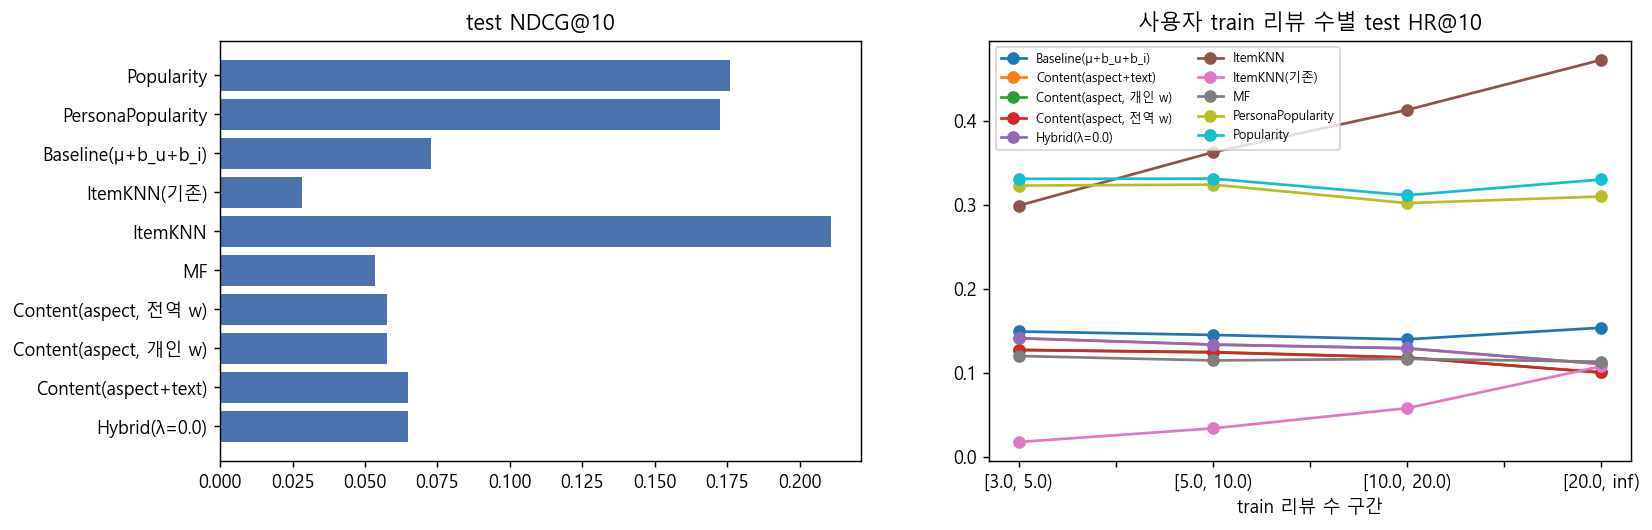
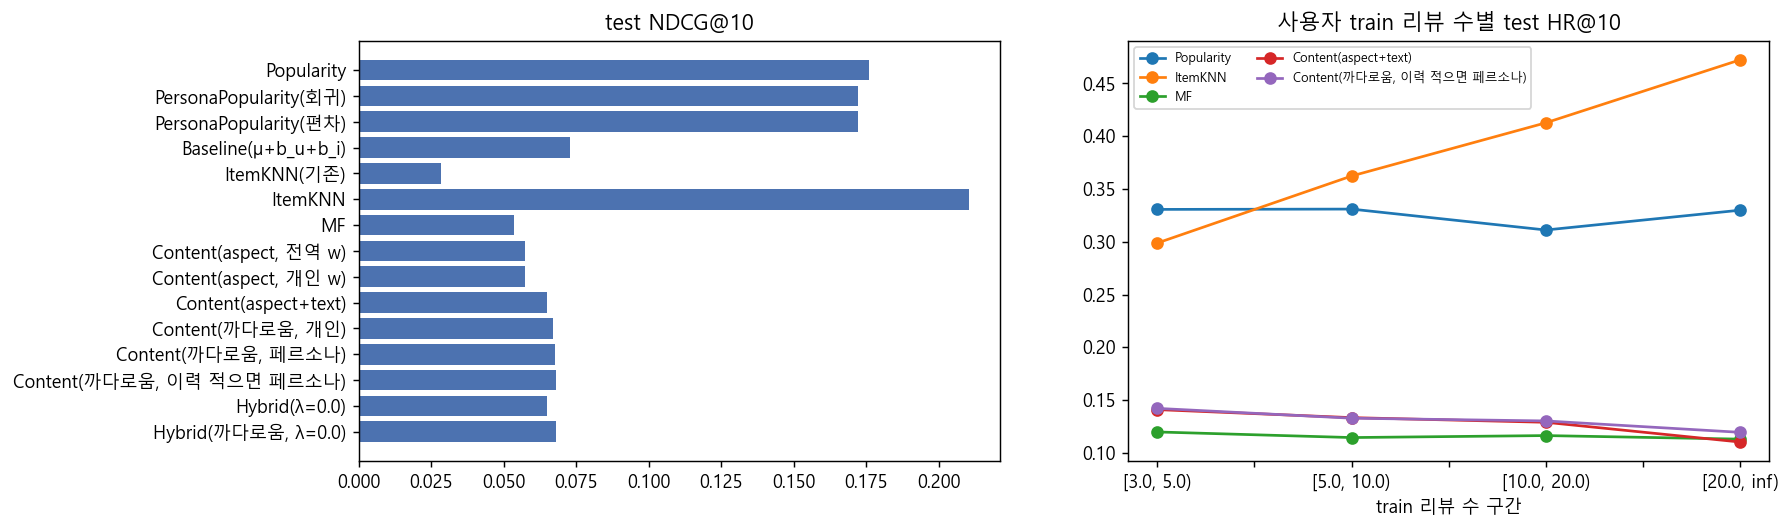
feat: 편차 기반 선호(04·05)를 06 추천 모델에 연결
- PersonaPopularity(편차): 05의 페르소나(K=2)로 군집별 인기 호텔 추천 (기존은 PersonaPopularity(회귀)로 이름 변경)
- Content(까다로움): aspect 가중치 = 전역 가중치 × exp(τ·까다로움) (합은 전역과 같게), 절편에 κ·관대함 추가
  - τ는 val NDCG@10으로 선택(후보 0~320, τ=160), κ는 val 평점 잔차 최소제곱(0.51)
  - 까다로움: 개인 / 페르소나 평균 / 이력이 적은 사용자(train 5건 미만)만 페르소나 세 가지 비교
- Hybrid(까다로움): λ·MF + (1-λ)·Content(까다로움, 이력 적으면 페르소나)
- 텍스트 유사도를 콘텐츠 변형들이 공유하도록 캐시, 활동량별 그림은 주요 모델만 표시
- 결과(test): 콘텐츠 기반 RMSE 0.952 -> 0.931, 무작위 후보 HR@5 0.070 -> 0.078, 같은 도시 후보는 차이 없음
- README: 06 모델 표, 연결 결과표와 해석, 06 입력(05 추가)과 실행 시간 갱신

diff --git a/Pipeline/06_train_evaluate.py b/Pipeline/06_train_evaluate.py
@@ -20,6 +20,16 @@ Item-kNN은 개선판(KNNBaseline + 분모 축소 + 공동 방문 순위 점수)
 
 하이브리드 (제안서 ④):  score = λ · MF + (1 - λ) · ContentBased,  λ는 val NDCG@10이 가장 높은 값
 
+편차 기반 선호 연결 (04·05단계의 user_personas_dev_tuned.csv)
+    PersonaPopularity(편차): 05의 페르소나(까다로움 유형)가 같은 사용자들이 4점 이상 준 호텔을 추천
+    Content(까다로움): 콘텐츠 기반의 aspect 가중치를 사용자가 까다롭게 보는 aspect 쪽으로 기울인다.
+        w_uk = w_g,k · exp(τ · strict_uk),  Σ_k w_uk = Σ_k w_g,k 가 되도록 정규화 (평점 척도 유지)
+        절편 = w_g,0 + κ · 관대함_u   (관대함은 사용자마다 상수라 순위는 바꾸지 않고 평점만 보정)
+        τ는 val NDCG@10, κ는 val 평점 잔차의 최소제곱으로 고른다.
+        까다로움은 세 가지로 비교: 개인 / 페르소나 평균 / 이력이 적은 사용자(train 리뷰 COLD_MAX건 미만)만 페르소나
+        (마지막이 역할표의 "콜드스타트 시 페르소나 가중치로 대체")
+    Hybrid(까다로움): λ · MF + (1 - λ) · Content(까다로움, 이력 적으면 페르소나), λ는 val NDCG@10
+
 출력: Pipeline/outputs/06_*.csv, figures/06_*.png
 """
 import argparse
@@ -29,16 +39,44 @@ import numpy as np
 import pandas as pd
 import scipy.sparse as sp
 
-from common import (HOTELREC_DIR, SEED, WORK_DIR, ensure_dirs, load_split, mae, ranking_metrics, rmse,
+from common import (ASPECTS, HOTELREC_DIR, SEED, WORK_DIR, ensure_dirs, load_split, mae, ranking_metrics, rmse,
                     sample_candidates, sample_city_candidates, save_fig, save_table, setup_plot)
 from models import BiasBaseline, BiasedMF, ContentBased, ItemKNN, PersonaPopularity, Popularity
 
 LAMBDAS = np.round(np.arange(0, 1.01, 0.1), 1)
 ACTIVITY_BINS = [3, 5, 10, 20, np.inf]
+# 까다로움 반영 강도 후보. 까다로움은 점수 단위로 대부분 ±0.1 이내라 τ가 수십~수백이어야 가중치가 달라진다.
+# (가장 까다로운 aspect의 가중치 비율 중앙값: τ=80 → 0.66, 160 → 0.89, 320 → 0.99)
+TAUS = [0, 5, 10, 20, 40, 80, 160, 320]
+COLD_MAX = 5                        # train 리뷰가 이보다 적은 사용자는 개인 대신 페르소나 까다로움 사용
+ACTIVITY_PLOT = ["Popularity", "ItemKNN", "MF", "Content(aspect+text)", "Content(까다로움, 이력 적으면 페르소나)"]
 
 
 def arrays(df):
     return df.user_id.to_numpy(), df.hotel_id.to_numpy(), df.rating.to_numpy(float)
+
+
+def strict_weights(w_g, S, tau, leniency=None, kappa=0.0):
+    """
+    까다로움을 반영한 사용자별 [절편, aspect 가중치 6개] (ContentBased의 W와 같은 형식)
+        w_uk ∝ w_g,k · exp(τ · S_uk), 합은 전역 가중치와 같게 맞춤 / 절편 = w_g,0 + κ · 관대함
+    """
+    w = w_g[1:] * np.exp(tau * S)
+    w *= w_g[1:].sum() / w.sum(1, keepdims=True)
+    w0 = w_g[0] + (kappa * leniency if leniency is not None else 0.0)
+    return np.column_stack([np.broadcast_to(w0, len(S)), w])
+
+
+def cache_pairs(f):
+    """같은 (사용자, 호텔) 배열에 대한 결과를 저장해 두고 재사용 (텍스트 유사도를 여러 콘텐츠 변형이 공유)"""
+    memo = {}
+
+    def g(a, b):
+        key = (a.size, hash(a.tobytes()), hash(b.tobytes()))
+        if key not in memo:
+            memo[key] = f(a, b)
+        return memo[key]
+    return g
 
 
 def main():
@@ -69,6 +107,18 @@ def main():
     A = np.load(WORK_DIR / "hotel_aspects.npy")
     T = sp.load_npz(WORK_DIR / "hotel_tfidf.npz")
 
+    # 04·05단계 편차 기반 선호: 관대함, aspect별 까다로움(개인, train만으로 계산), 페르소나
+    dev = pd.read_csv(WORK_DIR / "user_personas_dev_tuned.csv").sort_values("user_id")
+    assert len(dev) == n_users and (dev.user_id.to_numpy() == np.arange(n_users)).all()
+    leni = dev.leniency.to_numpy()
+    strict = dev[[f"strict_{a}" for a in ASPECTS]].to_numpy()
+    persona_dev = dev.persona.to_numpy()
+    strict_p = pd.DataFrame(strict).groupby(persona_dev).transform("mean").to_numpy()   # 페르소나 평균 까다로움
+    cold = np.bincount(u, minlength=n_users) < COLD_MAX
+    strict_c = np.where(cold[:, None], strict_p, strict)
+    print(f"편차 기반 선호 로드: 페르소나 {persona_dev.max() + 1}개, 이력이 적은 사용자(train {COLD_MAX}건 미만) "
+          f"{cold.mean():.1%}")
+
     # ------------------------------------------------------------ 학습
     print("[1/4] 모델 학습")
     times = {}
@@ -81,7 +131,8 @@ def main():
 
     base = timed("Baseline", lambda: BiasBaseline().fit(u, i, r, n_users, n_hotels))
     pop = timed("Popularity", lambda: Popularity().fit(u, i, r, n_users, n_hotels))
-    ppop = timed("PersonaPopularity", lambda: PersonaPopularity(persona).fit(u, i, r, n_users, n_hotels))
+    ppop = timed("PersonaPopularity(회귀)", lambda: PersonaPopularity(persona).fit(u, i, r, n_users, n_hotels))
+    ppop_dev = timed("PersonaPopularity(편차)", lambda: PersonaPopularity(persona_dev).fit(u, i, r, n_users, n_hotels))
     knn = timed("ItemKNN", lambda: ItemKNN(k=args.knn_k, shrink=args.knn_shrink, damp=args.knn_damp)
                 .fit(u, i, r, n_users, n_hotels))
     # 비교용 기존판: 사용자 평균 기준(adjusted cosine), 축소 약하게, 분모 축소 없음
@@ -89,7 +140,9 @@ def main():
                     .fit(u, i, r, n_users, n_hotels))
     mf = timed("MF", lambda: BiasedMF(k=args.mf_k, lr=args.mf_lr, reg=args.mf_reg, epochs=args.mf_epochs)
                .fit(u, i, r, n_users, n_hotels, val=val))
-    cb = timed("Content", lambda: ContentBased(W, A, T).fit(u, i, r, n_users, n_hotels).fit_gamma(*val))
+    cb = ContentBased(W, A, T)
+    cb.text_sim = cache_pairs(cb.text_sim)          # 텍스트 유사도는 아래 콘텐츠 변형들이 함께 재사용
+    cb = timed("Content", lambda: cb.fit(u, i, r, n_users, n_hotels).fit_gamma(*val))
     # 비교용: 개인 가중치 대신 모든 사용자에게 전역 가중치를 쓴 콘텐츠 기반 (aspect 효용만)
     cb_g = ContentBased(np.tile(w_g, (n_users, 1)), A, T)
 
@@ -115,8 +168,9 @@ def main():
         "Content(aspect, 개인 w)": lambda a, b: np.clip(cb.utility(a, b), 1, 5),
         "Content(aspect+text)": cb.predict,
     }
-    rank_models = {"Popularity": pop.predict, "PersonaPopularity": ppop.predict, **{
-        k: v for k, v in rating_models.items() if k != "GlobalMean"}}
+    rank_models = {"Popularity": pop.predict, "PersonaPopularity(회귀)": ppop.predict,
+                   "PersonaPopularity(편차)": ppop_dev.predict,
+                   **{k: v for k, v in rating_models.items() if k != "GlobalMean"}}
     rank_models["ItemKNN"] = knn.rank_score          # 개선판은 순위용 점수(공동 방문 유사도 합)를 따로 씀
 
     # ------------------------------------------------------------ 후보 생성
@@ -134,19 +188,61 @@ def main():
     def scores(f, users, cand):
         return f(np.repeat(users, cand.shape[1]), cand.ravel()).reshape(cand.shape)
 
+    # ------------------------------------------------------------ 편차 기반 선호 연결 (val로 τ, κ 선택)
+    print("[3/4] 편차 기반 선호 연결(τ, κ)과 하이브리드 λ 선택 (val)")
+    vc_u, vc_i = np.repeat(val_users, val_cand.shape[1]), val_cand.ravel()
+    v_sim = cb.text_sim(vc_u, vc_i).reshape(val_cand.shape)
+    tau_rows = []
+    for tau in TAUS:
+        util = ContentBased(strict_weights(w_g, strict, tau), A, T).utility(vc_u, vc_i).reshape(val_cand.shape)
+        met, _ = ranking_metrics(util + cb.gamma * (v_sim - cb.s_mean))
+        tau_rows.append({"tau": tau, **met})
+    tau_tab = pd.DataFrame(tau_rows)
+    tau = float(tau_tab.loc[tau_tab["NDCG@10"].idxmax(), "tau"])
+    # κ: 관대함으로 val 평점 잔차를 설명하는 계수 (절편 없는 최소제곱 = Σ L·잔차 / Σ L²)
+    util_v = (ContentBased(strict_weights(w_g, strict, tau), A, T).utility(val[0], val[1])
+              + cb.gamma * (cb.text_sim(val[0], val[1]) - cb.s_mean))
+    Lv = leni[val[0]]
+    kappa = float((Lv * (val[2] - util_v)).sum() / (Lv * Lv).sum())
+    tau_tab["selected"] = tau_tab.tau == tau
+    tau_tab["kappa"] = kappa
+    print(tau_tab.round(4).to_string(index=False))
+    print(f"   선택 τ = {tau}, 관대함 계수 κ = {kappa:.3f}")
+    save_table(tau_tab, "06_strictness_tau")
+
+    def content_strict(S):
+        """까다로움 S를 반영한 콘텐츠 기반 (텍스트 프로필·γ는 기존 콘텐츠 기반과 공유)"""
+        m = ContentBased(strict_weights(w_g, S, tau, leni, kappa), A, T)
+        m.R, m.gamma, m.s_mean, m.text_sim = cb.R, cb.gamma, cb.s_mean, cb.text_sim
+        return m
+
+    cbs = {"Content(까다로움, 개인)": content_strict(strict),
+           "Content(까다로움, 페르소나)": content_strict(strict_p),
+           "Content(까다로움, 이력 적으면 페르소나)": content_strict(strict_c)}
+    for name, m in cbs.items():
+        rating_models[name] = rank_models[name] = m.predict
+    cb_cold = cbs["Content(까다로움, 이력 적으면 페르소나)"]
+
     # ------------------------------------------------------------ 하이브리드 λ 선택 (val)
-    print("[3/4] 하이브리드 λ 선택 (val)")
-    v_mf, v_cb = scores(mf.predict, val_users, val_cand), scores(cb.predict, val_users, val_cand)
-    vp_mf, vp_cb = mf.predict(val[0], val[1]), cb.predict(val[0], val[1])
-    lam_rows = []
-    for lam in LAMBDAS:
-        met, _ = ranking_metrics(lam * v_mf + (1 - lam) * v_cb)
-        lam_rows.append({"lambda": lam, "val_rmse": rmse(val[2], lam * vp_mf + (1 - lam) * vp_cb), **met})
-    lam_tab = pd.DataFrame(lam_rows)
+    v_mf = scores(mf.predict, val_users, val_cand)
+    vp_mf = mf.predict(val[0], val[1])
+
+    def choose_lambda(content, label):
+        v_c, vp_c = scores(content.predict, val_users, val_cand), content.predict(val[0], val[1])
+        rows = []
+        for lm in LAMBDAS:
+            met, _ = ranking_metrics(lm * v_mf + (1 - lm) * v_c)
+            rows.append({"lambda": lm, "val_rmse": rmse(val[2], lm * vp_mf + (1 - lm) * vp_c), **met})
+        tab = pd.DataFrame(rows)
+        best = float(tab.loc[tab["NDCG@10"].idxmax(), "lambda"])
+        print(f"   {label}: 선택 λ = {best}  (λ=1: MF만, λ=0: 콘텐츠 기반만)")
+        return tab, best
+
+    lam_tab, lam = choose_lambda(cb, "Hybrid (MF + Content)")
     print(lam_tab.round(4).to_string(index=False))
-    lam = float(lam_tab.loc[lam_tab["NDCG@10"].idxmax(), "lambda"])
-    print(f"   선택 λ = {lam}  (λ=1: MF만, λ=0: 콘텐츠 기반만)")
     save_table(lam_tab, "06_hybrid_lambda")
+    lam_tab_s, lam_s = choose_lambda(cb_cold, "Hybrid (MF + Content 까다로움)")
+    save_table(lam_tab_s, "06_hybrid_lambda_strict")
 
     fig, ax = plt.subplots(1, 2, figsize=(11, 3.8))
     ax[0].plot(lam_tab["lambda"], lam_tab.val_rmse, marker="o")
@@ -161,6 +257,9 @@ def main():
     hybrid = lambda a, b: lam * mf.predict(a, b) + (1 - lam) * cb.predict(a, b)
     rating_models[f"Hybrid(λ={lam})"] = hybrid
     rank_models[f"Hybrid(λ={lam})"] = hybrid
+    hybrid_s = lambda a, b: lam_s * mf.predict(a, b) + (1 - lam_s) * cb_cold.predict(a, b)
+    rating_models[f"Hybrid(까다로움, λ={lam_s})"] = hybrid_s
+    rank_models[f"Hybrid(까다로움, λ={lam_s})"] = hybrid_s
 
     # 11단계(Kaggle 호텔 매칭)가 쓰는 호텔 단위 점수: 신규 사용자 예측은 사용자 항이 0
     np.savez(WORK_DIR / "hotel_scores.npz", base_mu=base.mu, base_bi=base.bi, mf_mu=mf.mu, mf_bi=mf.bi,
@@ -199,7 +298,7 @@ def main():
     ax[0].barh(rank_tab.model, rank_tab["NDCG@10"], color="#4c72b0")
     ax[0].invert_yaxis()
     ax[0].set_title("test NDCG@10")
-    piv = act.pivot(index="train_reviews", columns="model", values="HR@10")
+    piv = act.pivot(index="train_reviews", columns="model", values="HR@10")[ACTIVITY_PLOT]   # 주요 모델만 그림
     piv = piv.loc[sorted(piv.index, key=lambda s: float(s[1:].split(",")[0]))]
     piv.plot(ax=ax[1], marker="o")
     ax[1].set_title("사용자 train 리뷰 수별 test HR@10")

diff --git a/Pipeline/README.md b/Pipeline/README.md
@@ -49,7 +49,7 @@ data/processing/kaggle/    kaggle_test.csv, hotel_meta_kaggle.csv
 
 ## 3. 실행
 
-`Pipeline/` 폴더에서 번호 순서대로 실행합니다. 전체 약 25분입니다.
+`Pipeline/` 폴더에서 번호 순서대로 실행합니다. 전체 약 30분입니다.
 
 ```bash
 cd Pipeline
@@ -58,7 +58,7 @@ python 02_user_aspect_weights.py      # 약 2분
 python 03_hotel_features.py           # 약 4분
 python 04_persona_deviation.py        # 약 1분
 python 05_persona_tuning.py           # 약 0.5분
-python 06_train_evaluate.py           # 약 6분
+python 06_train_evaluate.py           # 약 10분
 python 07_tune_itemknn.py             # 선택, 약 9분
 python 08_kaggle_generalization.py    # 약 0.5분
 python 09_lexicon_audit.py            # 약 1분
@@ -79,7 +79,7 @@ python 11_kaggle_hotel_matching.py    # 약 0.1분
 | `03_hotel_features.py` | 호텔 aspect 평균, 호텔 TF-IDF | 01 | `03_hotel_top_terms.csv` |
 | `04_persona_deviation.py` | 편차 기반 관대함·까다로움, 페르소나 | 01, 02, 03 | `04_*.csv`, `figures/04_*.png` |
 | `05_persona_tuning.py` | 04의 축소 강도·관대함 계수·K 선택, test 평가 | 01~04 | `05_*.csv`, `figures/05_*.png` |
-| `06_train_evaluate.py` | 추천 모델 학습, 평점 예측·Top-N 평가, 하이브리드 λ 선택 | 01, 02, 03 | `06_*.csv`, `figures/06_*.png` |
+| `06_train_evaluate.py` | 추천 모델 학습, 평점 예측·Top-N 평가, 편차 기반 선호 연결, 하이브리드 λ 선택 | 01, 02, 03, 05 | `06_*.csv`, `figures/06_*.png` |
 | `07_tune_itemknn.py` | Item-kNN 설정 비교 (선택) | 01 | `07_itemknn_tuning.csv` |
 | `08_kaggle_generalization.py` | Kaggle 리뷰의 aspect 언급 분석, 키워드 사전(`LEXICON`) | 02 | `08_*.csv`, `figures/08_*.png` |
 | `09_lexicon_audit.py` | 키워드별 빈도·동시 언급·민감도 점검 | 08의 사전 | `09_*.csv` |
@@ -111,12 +111,16 @@ train(세부 평점 완전)과 partial을 합친 전체 리뷰에서 **사용자
 
 | 모델 | 방법 |
 | --- | --- |
-| Popularity / PersonaPopularity | 리뷰 수가 많은 호텔 / 같은 페르소나가 높게 평가한 호텔 (기준선) |
+| Popularity | 리뷰 수가 많은 호텔 (기준선) |
+| PersonaPopularity (회귀 / 편차) | 같은 페르소나(02의 K=3 / 05의 K=2)가 4점 이상 준 호텔 (제안서의 군집 기준선) |
 | Baseline | μ + b_u + b_i |
 | ItemKNN | 평점 예측: 기준 예측(μ+b_u+b_i) + 이웃 호텔 잔차의 가중 평균 (KNNBaseline)<br>Top-N: 사용자가 다녀간 호텔들과의 공동 방문 유사도 합 |
 | MF | μ + b_u + b_i + p_u·q_i, MSE + L2, 미니배치 SGD, val 기준 조기 종료 |
-| Content | aspect 효용 (사용자 가중치 × 호텔 aspect 평균) + γ × TF-IDF 코사인 유사도 |
-| Hybrid | λ · MF + (1 − λ) · Content, λ는 val NDCG@10으로 선택 |
+| Content | aspect 효용 (02의 사용자 가중치 × 호텔 aspect 평균) + γ × TF-IDF 코사인 유사도 |
+| Content (까다로움) | 04·05의 편차 기반 선호를 연결한 콘텐츠 기반. aspect 가중치를 사용자가 까다롭게 보는 aspect 쪽으로 기울이고(w_k ∝ 전역 가중치 × exp(τ · 까다로움)), 절편에 κ × 관대함을 더합니다. 까다로움은 개인 / 페르소나 평균 / 이력이 적은 사용자(train 5건 미만)만 페르소나 세 가지로 비교합니다 |
+| Hybrid / Hybrid (까다로움) | λ · MF + (1 − λ) · Content (또는 Content(까다로움, 이력 적으면 페르소나)), λ는 val NDCG@10으로 선택 |
+
+τ(까다로움 반영 강도)는 val NDCG@10, κ(관대함 계수)는 val 평점 잔차의 최소제곱으로 고릅니다 (`06_strictness_tau.csv`).
 
 평가 지표:
 - **평점 예측**: 모든 사용자의 test 리뷰에 대한 RMSE, MAE
@@ -170,6 +174,17 @@ Kaggle 리뷰 1건을 신규 사용자 1명으로 봅니다. aspect별 키워드
 | + 페르소나 (K=2) | 0.878 |
 | **+ 개인 까다로움 (M=30)** | **0.877** |
 
+**편차 기반 선호의 추천 연결 (06, test, τ=160, κ=0.51)**
+
+| 모델 | 평점 RMSE | 무작위 HR@5 / NDCG@10 | 같은 도시 NDCG@10 |
+| --- | --- | --- | --- |
+| Content (aspect + text) | 0.952 | 0.070 / 0.065 | 0.143 |
+| Content (까다로움, 개인) | 0.945 | 0.076 / 0.067 | 0.142 |
+| **Content (까다로움, 페르소나)** | **0.931** | 0.077 / 0.068 | **0.143** |
+| Content (까다로움, 이력 적으면 페르소나) | 0.939 | **0.078 / 0.068** | 0.142 |
+| PersonaPopularity (회귀, K=3) | – | 0.215 / 0.172 | 0.251 |
+| PersonaPopularity (편차, K=2) | – | 0.216 / 0.172 | 0.251 |
+
 **Kaggle 공통 호텔 505개 (11, 리뷰 203,215건): 신규 사용자 예측 vs 실제 점수**
 
 | 모델 | 리뷰 RMSE | 호텔 평균 점수와 상관 |
@@ -184,6 +199,8 @@ Kaggle 리뷰 1건을 신규 사용자 1명으로 봅니다. aspect별 키워드
 - ItemKNN은 이력이 많은 사용자일수록 좋아지고(HR@10: 리뷰 3~4건 0.299 → 20건 이상 0.472), 콘텐츠 기반은 이력이 적은 사용자에서 상대적으로 낫습니다.
 - **회귀 기반 사용자 가중치(02)는 전역 가중치보다 낫지 않았고**, 페르소나 간 차이도 거의 없었습니다(중요도 비율 차이 약 0.003).
 - **편차 기반(04·05)에서는 관대함이 뚜렷한 신호입니다** (0.905 → 0.878). aspect별 개인 까다로움도 있지만 효과는 작고(−0.001), 페르소나는 예측에 거의 기여하지 않습니다(−0.0002). 대신 "서비스 깐깐형 (위치엔 관대)" 35%, "수면 깐깐형 (서비스엔 관대)" 65%처럼 해석할 수 있는 유형이 나옵니다.
+- **편차 기반 선호를 콘텐츠 기반 추천에 연결하면 소폭 좋아집니다.** 평점 RMSE는 0.952 → 0.931(주로 관대함 보정), 무작위 후보 HR@5는 0.070 → 0.078(+11%), NDCG@10은 0.065 → 0.068로 올랐습니다. 같은 도시 후보에서는 차이가 없습니다. 개인 까다로움보다 페르소나 평균 까다로움이 RMSE가 낮아, 개인 값에는 잡음이 많고 페르소나로 묶으면 안정적이라는 뜻입니다. 이력이 20건 이상인 사용자에서 HR@10이 0.110 → 0.119로 가장 크게 올랐습니다. 다만 MF·Baseline(0.907~0.909)보다는 여전히 RMSE가 높고, 하이브리드는 까다로움 버전에서도 λ=0이 선택됩니다.
+- PersonaPopularity는 회귀 기반·편차 기반 모두 인기도(0.328)보다 약간 낮습니다. 페르소나가 2~3개뿐이라 군집별 인기 호텔이 전체 인기 호텔과 거의 같습니다.
 - **aspect 가중치는 플랫폼을 넘어 일반화됩니다.** HotelRec 전역 가중치로 매긴 Booking.com 호텔 점수는 동일 가중보다 실제 점수와 상관이 높습니다(0.274 → 0.301).
 - Booking.com 리뷰에서도 여행 유형별 선호 차이가 보입니다. 가족 여행객은 location을, 출장객은 rooms·sleep_quality·value를 더 언급합니다. 키워드 사전을 수정해도 여행 유형별 최다 언급 aspect는 8개 그룹 중 7개, 최소 언급 aspect는 8개 모두 유지됩니다(10).
 - 여행 유형과 페르소나의 연관은 회귀 기반·편차 기반 모두 약합니다(Cramér's V 0.03~0.05).
@@ -192,7 +209,7 @@ Kaggle 리뷰 1건을 신규 사용자 1명으로 봅니다. aspect별 키워드
 ## 7. 한계와 남은 과제
 
 - **하이브리드 결합 방식**: 지금 결합(MF + Content)은 순위에서 효과가 없습니다. CF 쪽을 ItemKNN으로 바꾸거나 인기도를 함께 넣는 방안을 검토해야 합니다.
-- **페르소나 활용**: 편차 기반 페르소나(05의 `user_personas_dev_tuned.csv`)는 아직 06의 PersonaPopularity·콘텐츠 기반에 연결되지 않았습니다. 예측 기여가 작아 효과는 크지 않을 것으로 보입니다.
+- **페르소나 활용**: 편차 기반 선호는 06의 콘텐츠 기반·하이브리드·PersonaPopularity에 연결되어 있지만 개선 폭이 작습니다. τ=160은 사용자가 가장 까다롭게 보는 aspect 하나에 가중치의 약 89%를 몰아주는 강한 설정이라, 해석할 때 "가장 깐깐한 aspect 위주로 호텔을 고른다"는 뜻으로 읽어야 합니다. 11의 Kaggle 신규 사용자 예측에는 사용자 이력이 없어 연결하지 않았습니다.
 - **평가 범위**: 같은 도시 평가는 대도시 사용자(표본의 25%)만 포함합니다. Kaggle 매칭은 6개 유럽 도시 505개 호텔에 한정됩니다.
 - **수작업 규칙**: aspect 키워드 사전(08, 수정안은 10)과 호텔명 매칭 규칙(11)은 직접 정한 것입니다. 매칭 목록은 `outputs/11_matched_hotels.csv`에서 확인할 수 있습니다.
 - **편차의 기준**: 04의 호텔 평균에는 사용자 자신의 train 리뷰도 포함되어, 리뷰가 적은 호텔에서는 편차가 약간 작게 잡힙니다.
